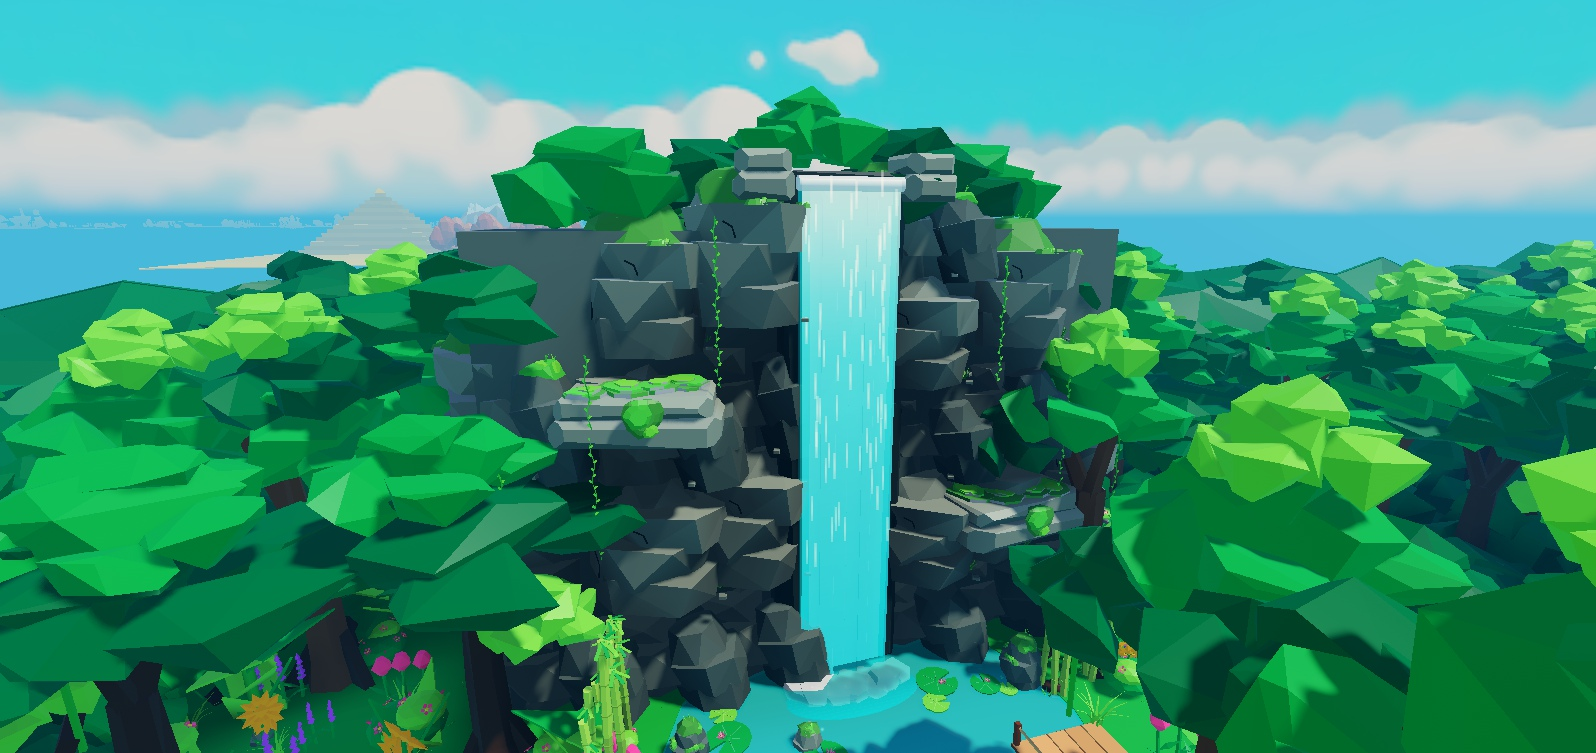
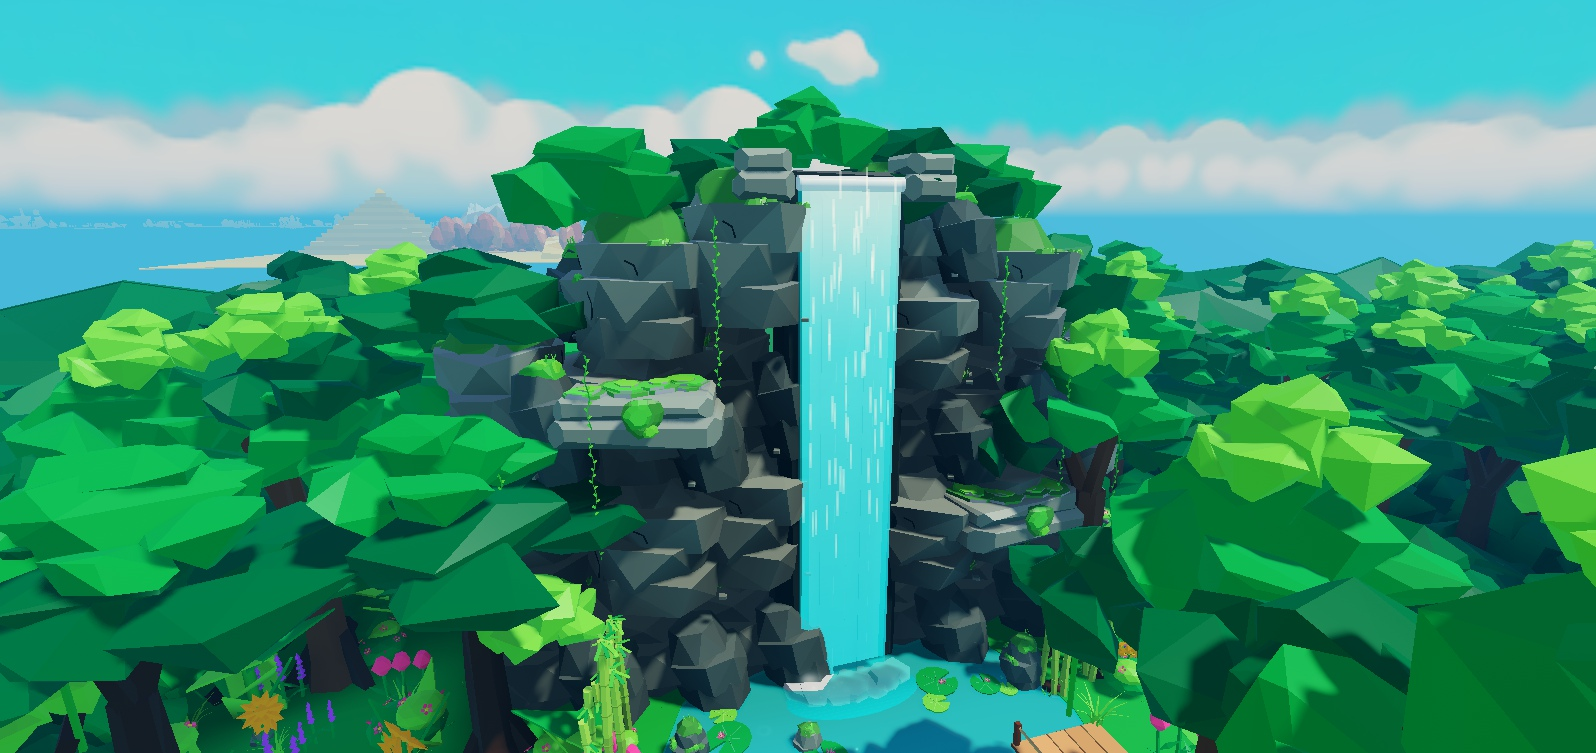
Round 5 done: waterfall cliff back slab hidden (still collides), end checks, docs (prop_inventory round 5 table, texture guide F10), Play check

diff --git a/docs/prop_inventory.md b/docs/prop_inventory.md
@@ -1239,6 +1239,39 @@ MapProps template, tagged it and placed a sample in the asset preview; part 2 re
 
 Totals: 6 copies replaced (3 templates, 1 map copy + 1 preview sample each).
 
+### Round 5 remakes (owner, "ROUND 5: ASSET PREVIEW - NPCs AND ENEMIES + SPECIAL FIXES", 2026-10-26)
+
+Builders in `tools/PropsRound5.luau` (`DevTools.PropsRound5`, one `P.<builder>()` per asset; the old template goes to
+`MapProps._Previous`). Rule for every row: today's colliding parts stay (as they are, or as invisible `Collision`
+copies), so the collidable set of each template is identical (checked part by part); glows, prompts, scripts and
+nested props are kept. All are "improved" in `BuildAssetPreview.QUALITY` and in the asset preview index.
+
+| image | MapProps id | where | builder | base (PRIORITY RULE) | collision | replaced |
+|---|---|---|---|---|---|---|
+| 02 | `cart` (old `hub_vehicle_cart_a` copies) | Hub, Plains, Desert, Volcano | (Sync rule) | the improved cart | - | 5 / 5 (0 old carts left) |
+| 07 | `desert_landmark_sarcophagus` | Desert boss arena | `sarcophagus` | golden_guardian x3.27 + desert_column | 25 / 25 | 2 / 2 |
+| 15 | `jungle_palisade_gate` (the 2 guards) | Jungle_2 | `jungleGuards` | new tribal guards | 38 / 38 | 4 / 4 |
+| 18 | `tundra_landmark_ice_throne` | Tundra boss arena | `iceThrone` | tundra_ice_throne x2.70 | 16 / 16 | 2 / 2 |
+| 03 | `plains_landmark_ancient_tree` | Plains | `ancientTree` | swamp / jungle tree recipe | 25 / 25 | 2 / 2 |
+| 04 | `desert_landmark_stone_bridge` | Desert | `stoneBridge` | desert gate recipe | 31 / 31 | 2 / 2 |
+| 05 | `desert_landmark_rock_arch` | Desert | `rockArch` | mesa strata recipe | 27 / 27 | 2 / 2 |
+| 06 | `desert_gate_door` | Desert boss arena Door | `desertArenaDoor` | Egyptian arch / temple gate recipe | 19 / 19 | 2 / 2 |
+| 08 | `desert_gate_boss_gate` | Desert_4 | `desertBossGate` | same + studded leaves | 92 / 92 | 2 / 2 |
+| 09 | `desert_landmark_oasis_well` | Desert_2 | `oasisWell` | the improved plains `well` (meshes) + fountain water | 36 / 36 | 2 / 2 |
+| 10 | `desert_prop_spear` | Desert boss arena (x8) | `spear` | new (leaf blade solid) | 4 / 4 | 9 / 9 |
+| 11 | `jungle_gate_boss_gate` | Jungle_4 | `jungleBossGate` | face_temple_gate stone recipe | 23 / 23 | 2 / 2 |
+| 12 | `jungle_gate_door` | Jungle boss arena Door | `jungleArenaDoor` | jungle stone door recipe | 5 / 5 | 2 / 2 |
+| 13 | `jungle_landmark_waterfall_cliff` | Jungle_2 | `waterfallCliff` | jungle_rock_large stacked + fountain water | 12 / 12 | 2 / 2 |
+| 14 | `jungle_landmark_golden_idol` | Jungle boss arena | `goldenIdol` | golden guardian / totem recipe | 23 / 23 | 2 / 2 |
+| 16 | `jungle_landmark_step_pyramid` | Jungle_3 | `stepPyramid` | jungle temple stone + jungle_flower_bush | 18 / 18 | 2 / 2 |
+| 17 | `jungle_statue_ruin_pillar_a` | Jungle_3 (x10) | `ruinPillar` | jungle broken pillar recipe | 5 / 5 | 11 / 11 |
+| 19 | `tundra_gate_boss_gate` | Tundra_4 | `tundraBossGate` | tundra_ice_castle_gate recipe | 16 / 16 | 2 / 2 |
+| 20 | `tundra_gate_door` | Tundra boss arena Door | `tundraArenaDoor` | ice castle door recipe | 4 / 4 | 2 / 2 |
+
+Notes: the 3 arena doors (06, 12, 20) are faded and unblocked as a whole by BossService.setDoor, new parts included.
+Backups: `BackUP_Files/round5_before_*` (carts, sarcophagus, jungle_guards, ice_throne, task3, task3b, task3c).
+Shots: `docs/screenshots/round5/` (before / after, preview + one map or arena placement each).
+
 ---
 
 Written by Agent B (Studio builder and sync) on 2026-10-18 from the live place (Studio, Edit mode).

diff --git a/docs/prop_texture_guide.md b/docs/prop_texture_guide.md
@@ -3331,6 +3331,35 @@ them.
 - **Nested props:** rebuild from their templates at the recorded poses and scales; a nested lantern that carried its
   own light gets a `KeptLight_Lantern` part (MapPropKeep) with that light.
 
+### F10. Round 5 recipes (owner task 2026-10-26, "ROUND 5" Task 2 / Task 3)
+
+`tools/PropsRound5.luau`. Each builder clones today's template, turns today's visible colliding parts into invisible
+`Collision` parts of the same shape, adds the new visuals (CanCollide false) and merges them into one union per name.
+
+- **Reuse first (PRIORITY RULE):** an improved template is duplicated and fitted (`P.fitInto`: a union clone scaled
+  into a box via ExtentsCFrame / ExtentsSize; or the template's MeshParts scaled per axis, recoloured): the oasis well
+  is the plains well in sandstone (x / z 1.5, y 1.2); the waterfall cliff stacks 3-5 jungle_rock_large boulders per
+  rock (half-turned, tapering, the boulder's moss cap on the top one); water is the fountain's rippled LowerWater /
+  UpperWater mesh resized.
+- **Egyptian gate recipe (desert):** coursed pylons (H.course, 3-stud courses, running bond) on dark plinths with
+  2 carved grooves per face, flared capital + gold rim, chamfered gold / lapis bands with lapis squares / gold
+  diamonds, a 2-course lintel with gold rules, a 2-tier gold cornice, gold leaf frames with 2 stud columns per leaf,
+  gold bezels round gems, a 12-segment gold ring round a sun disc, feather layers under wings.
+- **Strata slab (red rock):** `P.strataSlab` = a convex solid (TB.solidOf) of the slab's box with jittered bevel
+  planes on every edge, tone by face (top x1.12, underside x0.72); every third slab proud / set back.
+- **Jungle stone (gates, idol base, pyramid, door):** `PropsJungleBuildings.stoneFace` on each exposed face (for
+  X-facing faces build it as a front face and turn the pieces by +-90 degrees about Y), the part itself darkened to
+  STONE_DARK as the mortar core; mossPatch / mossFacet / vineFacets / vine for moss and vines; frustumN for fangs,
+  drums, bowls and octagonal columns (turn 22.5 degrees to put a flat face under a front glyph).
+- **Seated idol:** chamfered blocks with large chamfers (2.4-3.0) read as rounded gold; limbs as octagonal frustums
+  along a segment (H.frameY); faceted 4-sided feathers / spikes; gems as non-neon teal diamonds (the eyes stay the
+  only glow).
+- **Ice castle door (tundra):** `PropsTundraGates.iceFace` blocks over a deep blue core; per leaf face an icy Glass
+  frame (T 0.1), frosted Glass panels (T 0.15) with a slim frost lattice and rime triangles in the corners; faceted
+  gold spikes as 4-plane pyramids (TB.solidOf) so a crown emblem has depth; today's gems kept proud of the new band.
+- **Hidden backing:** a big flat collider that shows behind new detail (the waterfall cliff's CliffCore) stays the
+  collider with Transparency 1.
+
 ## 1. Which colours: the real Part colours, not the photo pixels
 
 The photos show today's parts after the hub's colour grading. The graded pixels are about +15 % brighter and more

diff --git a/docs/NIGHT_LOG.md b/docs/NIGHT_LOG.md
@@ -3846,3 +3846,22 @@ only the tag and attributes, nothing else.
 - Task 3 11-20 labels: B.QUALITY += the 8 ids; Jungle + Tundra rebuilt (0 created / 0 moved), all 8 labels "improved";
   docs/asset_preview_index.md / .json regenerated (228 improved rows). TASK 3 DONE (03-14, 16, 17, 19, 20; 07 / 15 / 18
   = Task 2). Tools: PropsRound5 132681 / de94de87827fb67c, BuildAssetPreview 70465 / baec303e459dc5af (disk == Studio).
+- Fix (main, after 11-20 push): 13 waterfall cliff - the flat grey back slab (CliffCore, the PrimaryPart and a
+  collider) showed above / beside the boulders; it is now Transparency 1 (CastShadow off), still the collider: collision
+  12 / 12 identical, replaced 2 / 2 again (template restored from _Previous and rebuilt). PropsRound5 132860 /
+  75b066bde453648c. Shots 13_waterfall_cliff_after_preview|map.jpg re-shot.
+- ROUND 5 END CHECKS: ground compare = 0 differences on the 13 owner grounds (OwnerLocked 13 / 13); layout: 0 labels /
+  plates moved, 166 samples moved only vertically (the accepted settle), 14 samples re-centred in x / z = remade assets
+  only, 8 "missing" = the old hub_vehicle_cart_a items replaced by the improved cart. Inertness: B.check on all 13 zones
+  0 problems (after B.tag Desert / Jungle / Tundra refreshed 38 Zone / SizeClass attributes on copies whose size class
+  changed with the remake, nested jackals / stone heads / knights / torches included); checkCharacters 176 samples,
+  0 problems. Every copy of the 19 touched propIds is on its template's version (cart 12, spear 9, ruin pillar 11, the
+  rest 2 or 4); 0 old hub_vehicle_cart_a copies. Full dry run: 626 templates / 14475 copies, 0 replaced. Export 230
+  scripts, pull_scripts twice: 0 written. graphify update: 4218 nodes / 10540 edges. Docs: prop_inventory.md "Round 5
+  remakes" table, prop_texture_guide.md F10 (round 5 recipes), asset_preview_index md / json regenerated (228 improved).
+  ROUND 5 DONE.
+- Main agent: ROUND 5 PLAY CHECK OK. Hub 144 fps. Plains: 6 improved carts streamed, 0 old carts. Jungle and Tundra boss
+  gates: "Enter solo" works, the arena opens with the Leave prompt on (left the Jungle lobby by the prompt); Tundra
+  fight started: the 13 door parts all collide and the player is held inside. Desert: entered, after the lobby the 24
+  door parts collide, the Leave prompt is off, both mini-bosses spawn; 144 fps, also on the iPhone 17 Pro emulator
+  (render 2.4 ms). 0 game errors. Backup after_round5.

diff --git a/docs/asset_preview_index.md b/docs/asset_preview_index.md
@@ -1,6 +1,6 @@
 # Asset preview index
 
-Generated by `tools/BuildAssetPreview.luau` (`B.index()`), 2026-10-26T09:09:17Z. Every visible object of the game
+Generated by `tools/BuildAssetPreview.luau` (`B.index()`), 2026-10-26T09:14:29Z. Every visible object of the game
 is a MapProps template (ServerStorage.MapProps.<propId>) with one sample per zone that uses it in
 `workspace._Staging.AssetPreview.ByZone` (one block per zone, Hub first, rows SMALL < 6 / MEDIUM up to 25 / LARGE studs, sorted by category then name).
 Rule: every new asset added to a map must also be added to the asset preview (run tools/BuildAssetPreview.luau).
